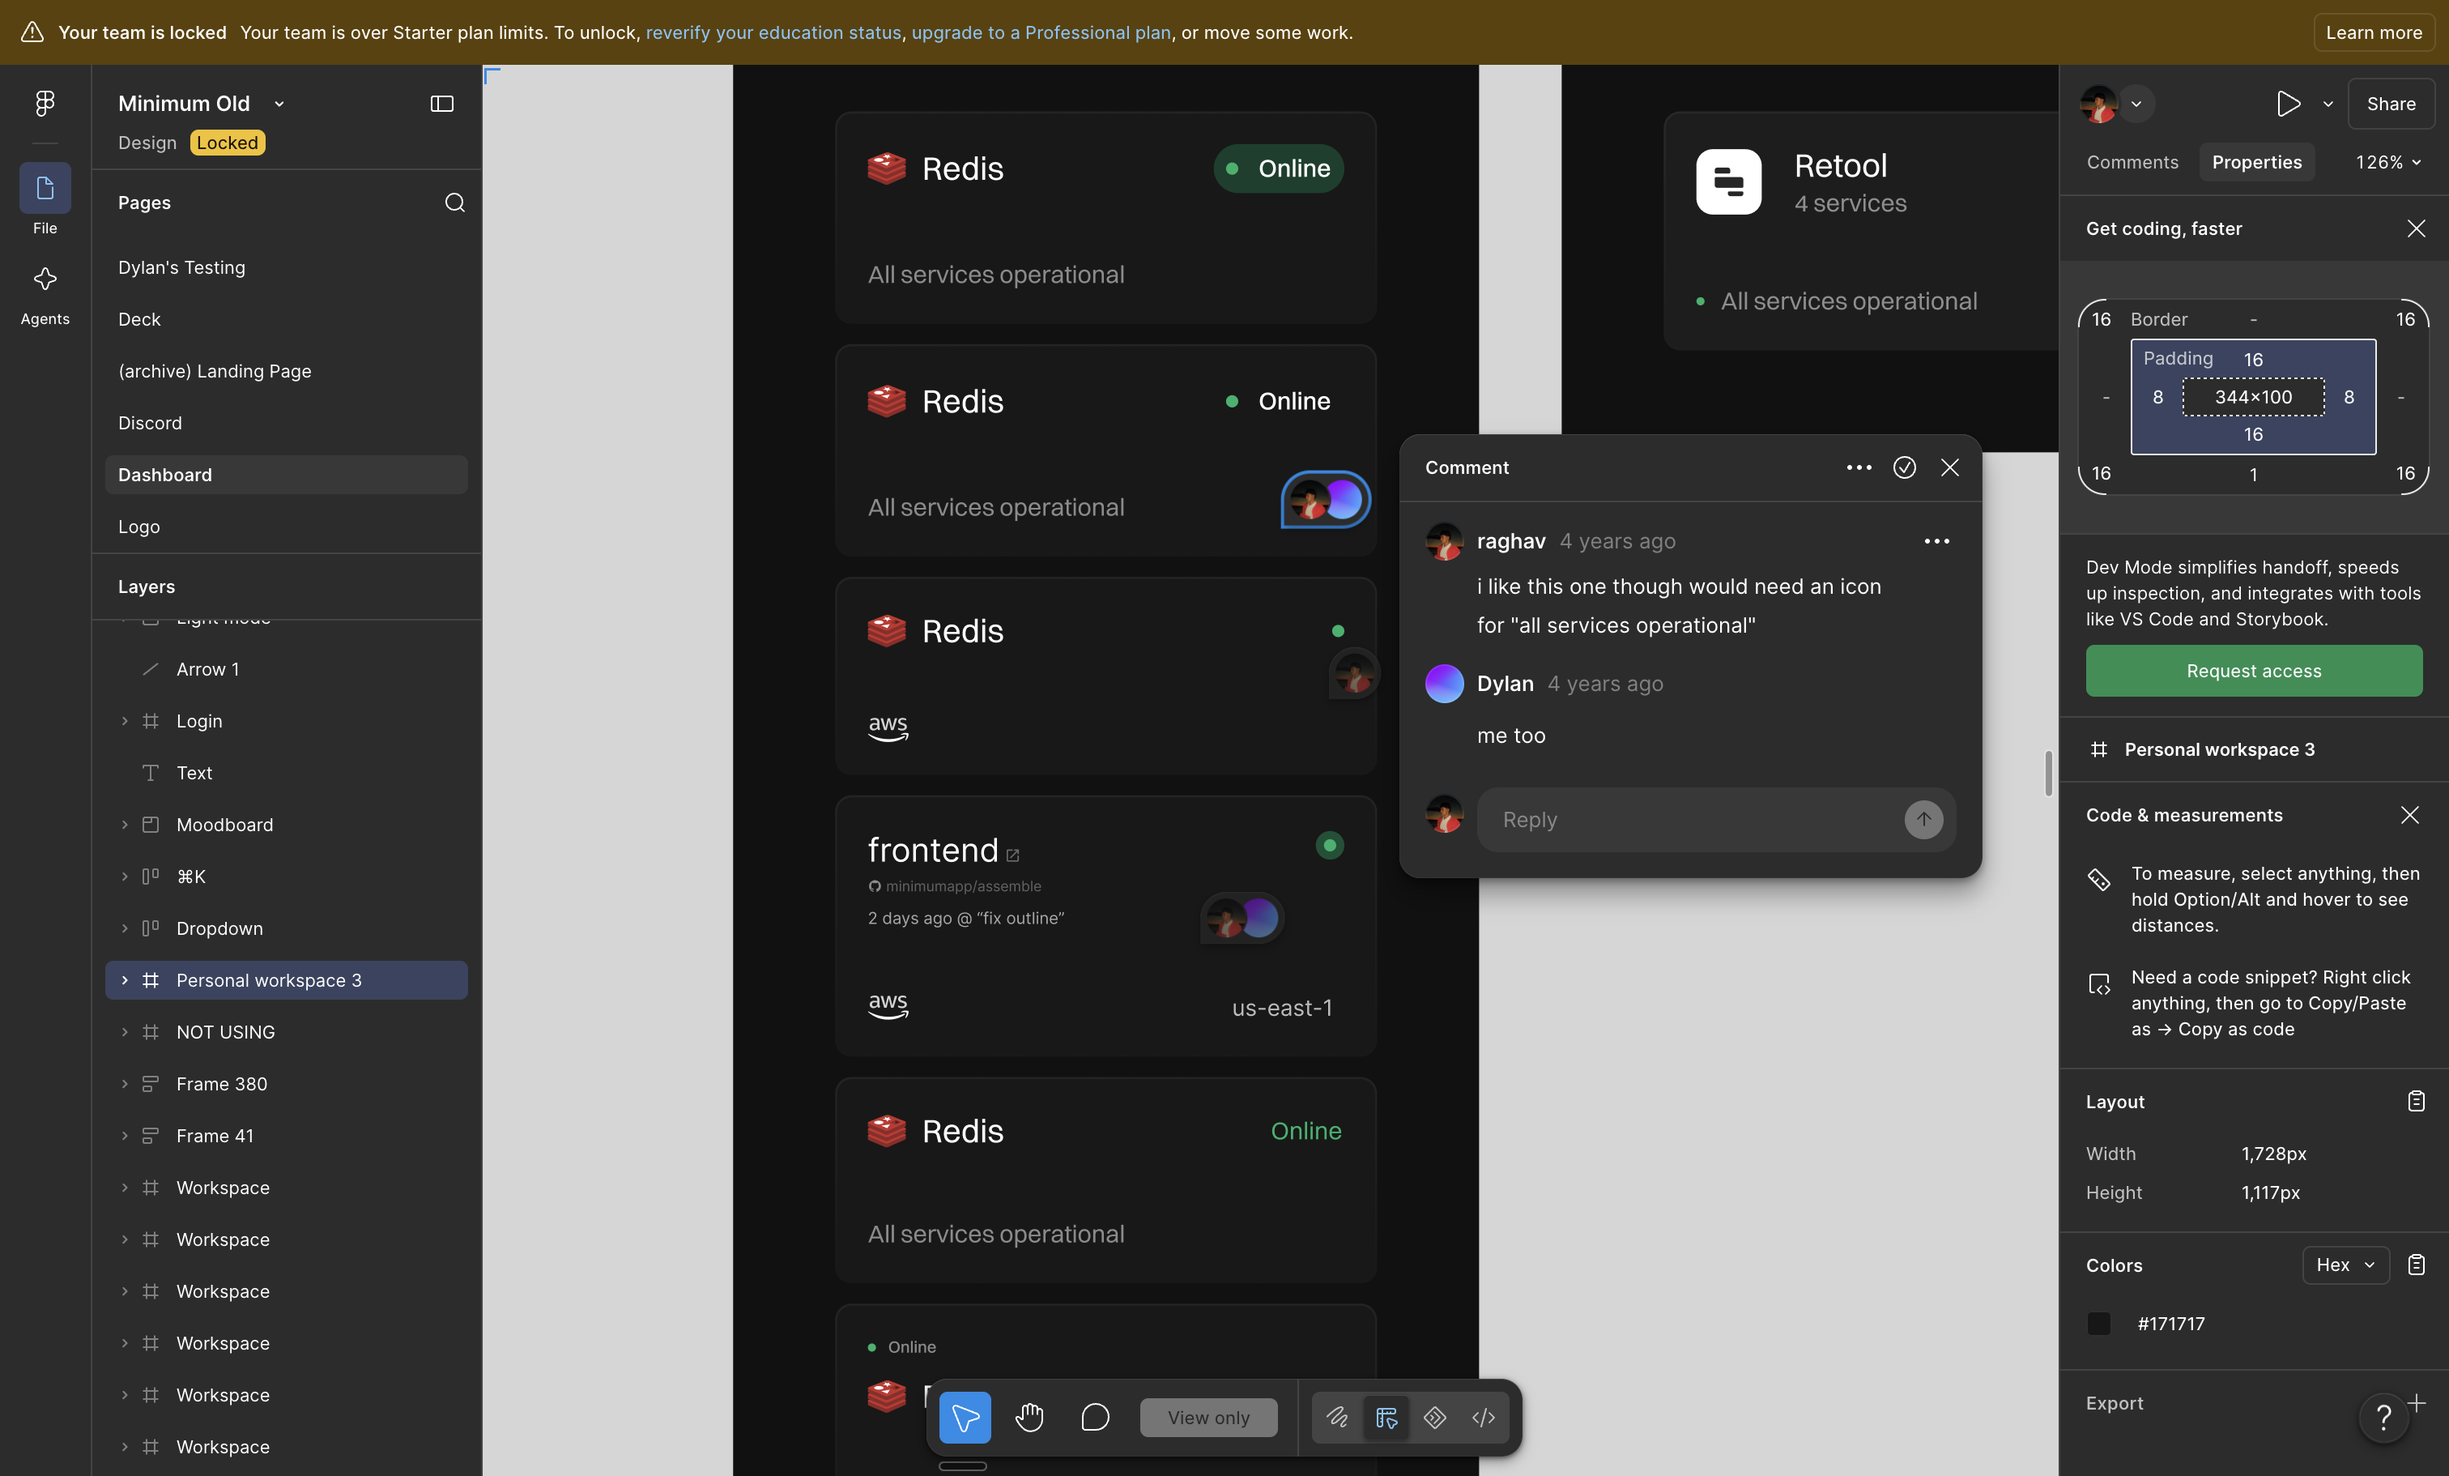
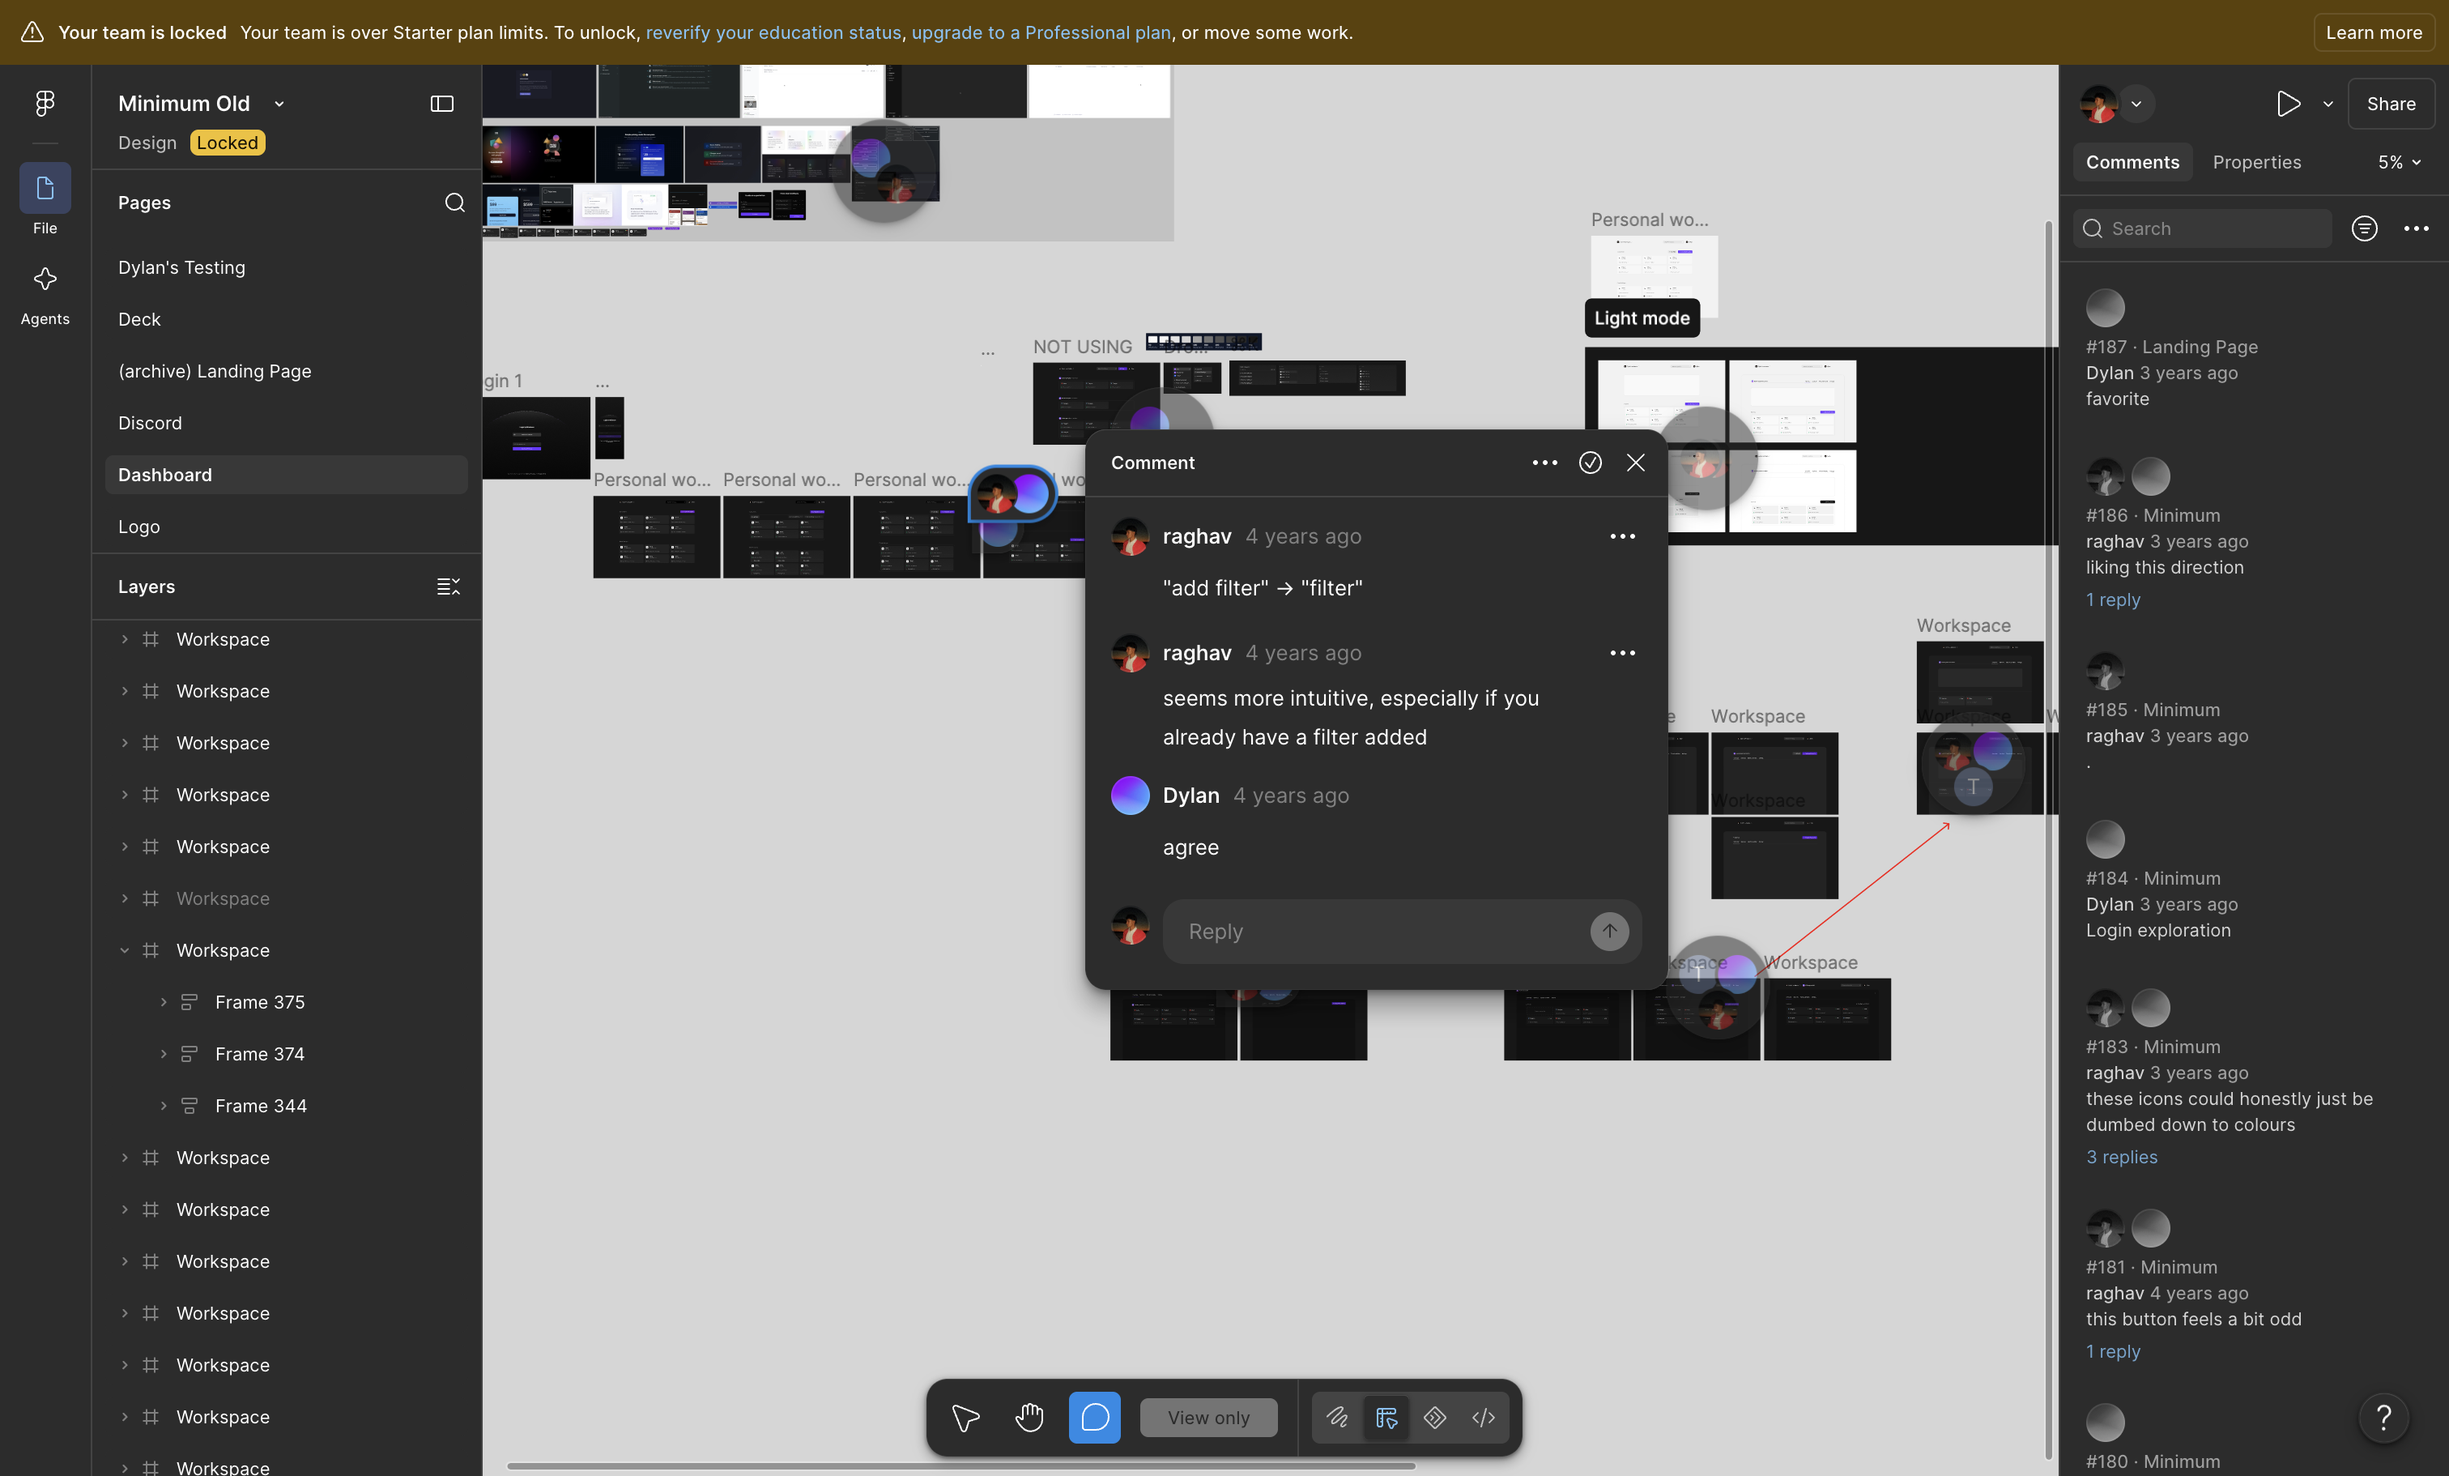
Update Minimum dashboard story images

diff --git a/src/app/canvas/experience.tsx b/src/app/canvas/experience.tsx
@@ -454,13 +454,13 @@ function MinimumStory() {
       </div>
 
       <div className={`${storyStyles.prose} ${storyStyles.afterMedia}`}>
-        <p>Below, you can see my first dashboard design alongside one of my last iterations. The difference is pretty dramatic, and you can see just how much I evolved over the course of the project. It&apos;s a fun reminder of how much you can learn by simply making things over and over again.</p>
+        <p>Below, you can see my first dashboard design alongside early iterations from 2022. The difference from that to the final work is pretty dramatic, and you can see just how much I evolved over the course of the project. It&apos;s a fun reminder of how much you can learn by simply making things over and over again.</p>
       </div>
 
       <div className={storyStyles.mediaGroup}>
         <figure className={storyStyles.media}>
           <span className={storyStyles.screenshotFrame}>
-            <Image src="/minimum/first-dashboard-design-detail.png" alt="Early Minimum dashboard and service card explorations on a Figma canvas" width={3024} height={1822} sizes="(max-width: 700px) 100vw, 70vw" />
+            <Image src="/minimum/first-dashboard-design-detail.png" alt="Early Minimum dashboard iterations and feedback on a Figma canvas" width={3024} height={1822} sizes="(max-width: 700px) 100vw, 70vw" />
           </span>
         </figure>
         <figure className={storyStyles.media}>
@@ -495,11 +495,18 @@ function MinimumStory() {
         <p>Eventually, Minimum came to an end. We were all getting busier with school and our own lives, and the reality of graduating and figuring out our futures started to set in. It became harder to give the project the time and attention it deserved, and we slowly moved on to other things.</p>
       </div>
 
-      <figure className={`${storyStyles.media} ${storyStyles.singleMedia}`}>
-        <span className={storyStyles.screenshotFrame}>
-          <Image src="/minimum/discord-october-2025.png" alt="October 2025 Discord message saying rip minimum" width={3024} height={1832} sizes="(max-width: 700px) 100vw, 70vw" />
-        </span>
-      </figure>
+      <div className={storyStyles.mediaGroup}>
+        <figure className={storyStyles.media}>
+          <span className={storyStyles.screenshotFrame}>
+            <Image src="/minimum/minimum-final-website.png" alt="Minimum website with the cloud platform introduction and build logs" width={2880} height={1620} sizes="(max-width: 700px) 100vw, 70vw" />
+          </span>
+        </figure>
+        <figure className={storyStyles.media}>
+          <span className={storyStyles.screenshotFrame}>
+            <Image src="/minimum/discord-october-2025.png" alt="October 2025 Discord message saying rip minimum" width={3024} height={1832} sizes="(max-width: 700px) 100vw, 70vw" />
+          </span>
+        </figure>
+      </div>
 
       <div className={`${storyStyles.prose} ${storyStyles.afterMedia}`}>
         <p>Although Minimum never became the company we imagined, I&apos;m incredibly glad we worked on it. It gave me a place to experiment without worrying too much about getting everything right, develop my taste, and learn how to think through complicated product problems.</p>
